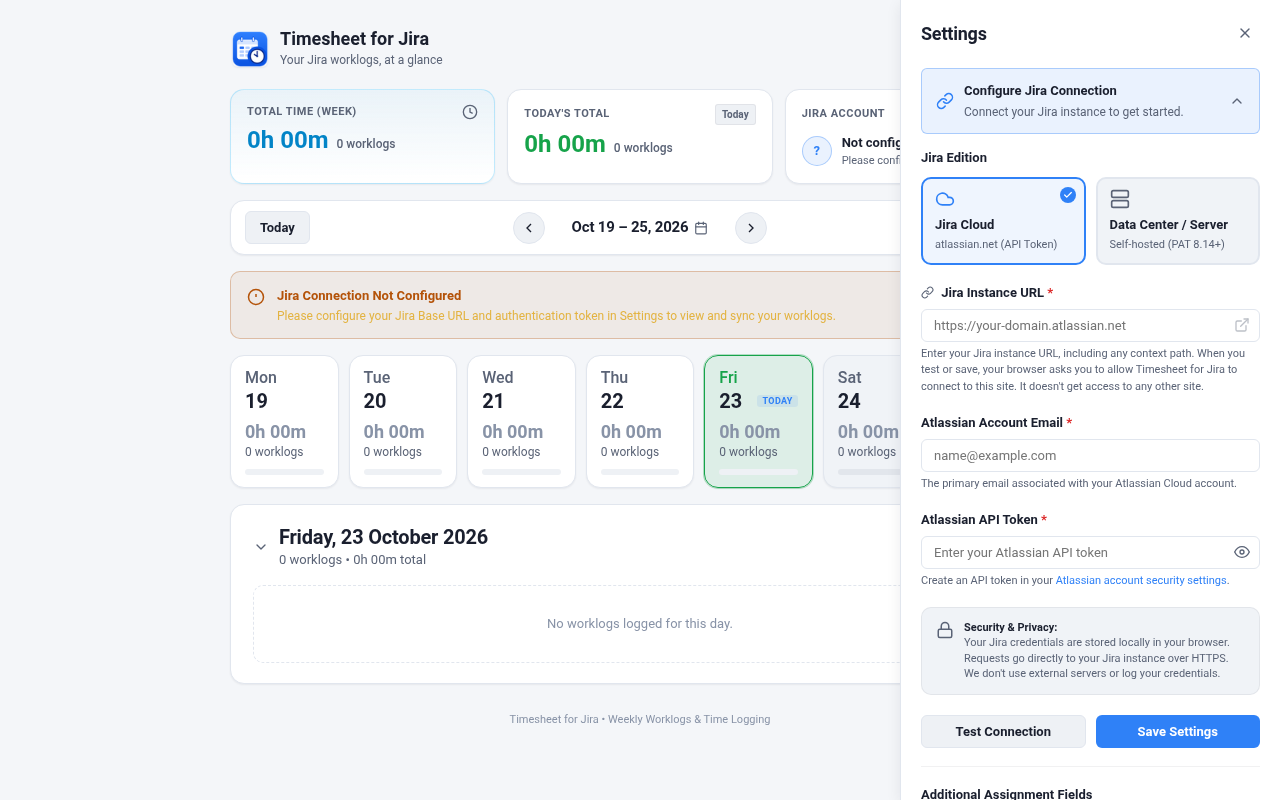
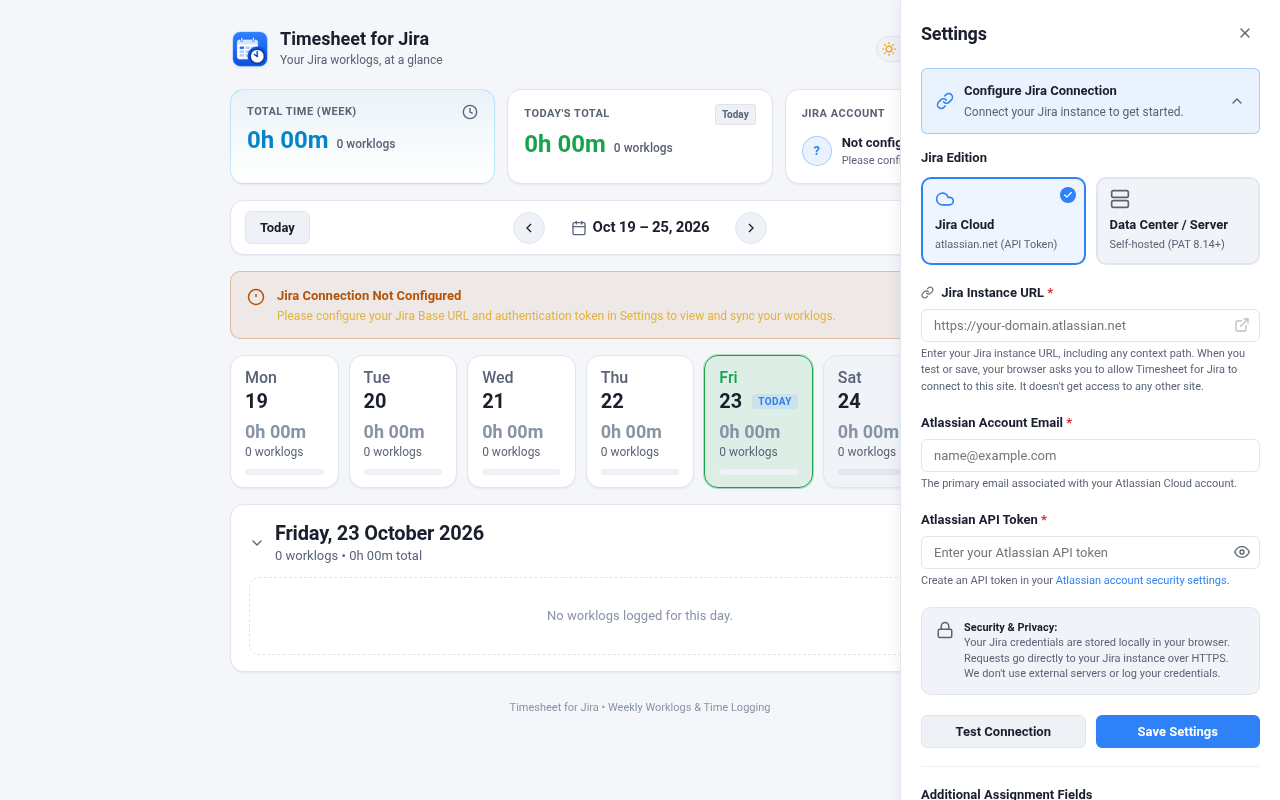
docs: update the screenshots and store tiles for 1.2.1
- Every screenshot in docs/screenshots/ is captured again from the
  current page: the day's worklogs in one container, with the start time
  and author above the comment, the calendar icon before the date range,
  and v1.2.1 in Settings.
- timer-and-pending-worklogs showed only the overview since My Work
  moved below the day panel. It now shows My Work expanded, with the
  running timer, Issues, and Pending Worklogs with its total, and the
  day panel collapsed. Headless Chrome's --screenshot doesn't capture a
  scrolled page, so the scenario is captured in a 1280x1250 window and
  cropped to 1280x800 from just above the weekday cards.
- The Chrome store tiles are rendered again from promo.html with the new
  app-overview@2x.png; their text and sizes are unchanged.
- The capture script's comments and the screenshots README use the
  current names (My Work, Issues) and describe the crop.

diff --git a/docs/screenshots/source/capture.py b/docs/screenshots/source/capture.py
@@ -79,8 +79,9 @@ CONFIGURED = {
 LIGHT = {'jts-theme': 'light', 'jts-day-panel-expanded': 'true'}
 DARK = {'jts-day-panel-expanded': 'true'}
 EXPANDED = {'jts-working-issues-expanded': 'true'}
-# My Active Issues stays collapsed (its default) in the overviews; its header still shows the
-# running timer and the pending worklog. timer-and-pending-worklogs shows it expanded.
+# My Work, below the selected day's worklogs, stays collapsed (its default) in the overviews; its
+# header still shows the running timer. timer-and-pending-worklogs shows it expanded, with its
+# Issues and Pending Worklogs groups, and the day panel collapsed (its default).
 TUESDAY = [
     {'do': 'wait', 'selector': '.worklog-duration-badge'},
     {'do': 'wait', 'selector': '.working-issues-timer:not(.hidden)'},
@@ -100,10 +101,13 @@ SCENARIOS = [
         {'do': 'click', 'selector': '.day-add-btn'},
         {'do': 'type', 'selector': '#worklogIssueSearch', 'text': 'KAN-1'},
         {'do': 'wait', 'selector': '.issue-picker-option-key'}]),
-    screenshot('timer-and-pending-worklogs', storage=CONFIGURED,
-               localStorage={**LIGHT, **EXPANDED}, steps=[
+    # A taller window, cropped to 1280x800 from just above the weekday cards: My Work is below the
+    # day panel, and headless Chrome's --screenshot doesn't capture a scrolled page.
+    screenshot('timer-and-pending-worklogs', storage=CONFIGURED, size=(1280, 1250), crop=(0, 309, 1280, 800),
+               localStorage={'jts-theme': 'light', **EXPANDED}, steps=[
         {'do': 'wait', 'selector': '.worklog-duration-badge'},
-        {'do': 'wait', 'selector': '.working-issues-timer:not(.hidden)'}]),
+        {'do': 'wait', 'selector': '.working-issues-timer:not(.hidden)'},
+        {'do': 'wait', 'selector': '.pending-worklog'}]),
     screenshot('public-holidays-settings', storage=CONFIGURED, localStorage=LIGHT, steps=[
         {'do': 'wait', 'selector': '.worklog-duration-badge'},
         {'do': 'wait', 'selector': '#nextHolidayBanner:not(.hidden)'},

diff --git a/docs/screenshots/source/README.md b/docs/screenshots/source/README.md
@@ -27,7 +27,7 @@ The harness answers only the requests the extension makes: `/myself`, `/serverIn
 - **Worklogs:** the 15 worklogs from `demo-data.json`, 28h 30m in all. They are real KAN worklogs; nothing is added.
 - **Timer and pending worklog:** these live only in the extension's local storage, not in Jira, so they are seeded in `capture.py`. A timer has been running on KAN-12 since 17:40, after the last worklog. A 45-minute pending worklog on KAN-13, from 11:15 to 12:00 on Friday, fits between that day's worklogs.
 - **Public Holidays:** turned on for Italy. No Italian holiday falls in the demonstration week, so no weekday card is marked; the banner above the week shows the next one, All Saints' Day (Sun, Nov 1).
-- **Panels:** the selected day's panel is expanded, so its worklogs show (it starts collapsed). My Active Issues stays collapsed, its default, except in `timer-and-pending-worklogs`, which shows it expanded with its Active Issues and Pending Worklogs groups (both expanded, their default).
+- **Panels:** the selected day's panel is expanded, so its worklogs show (it starts collapsed). My Work, below it, stays collapsed, its default, except in `timer-and-pending-worklogs`. That one shows My Work expanded, with its Issues and Pending Worklogs groups (both expanded, their default), and leaves the day's panel collapsed. My Work is then below the fold of an 800 px window, and headless Chrome's `--screenshot` doesn't capture a scrolled page. So this scenario is captured in a taller window and cropped to 1280×800, from just above the weekday cards.
 - **Settings screenshots:** `connection-settings-cloud` and `connection-settings-data-center` show Settings before anything is configured, with blank fields. `public-holidays-settings` shows them once configured, with Jira Connection collapsed, so no email or token appears.
 
 No real tokens, passwords, or customer data are used. The screenshots show the account name "Luciano de Sa" and the site `0xlsa.atlassian.net`, as earlier screenshots did.
